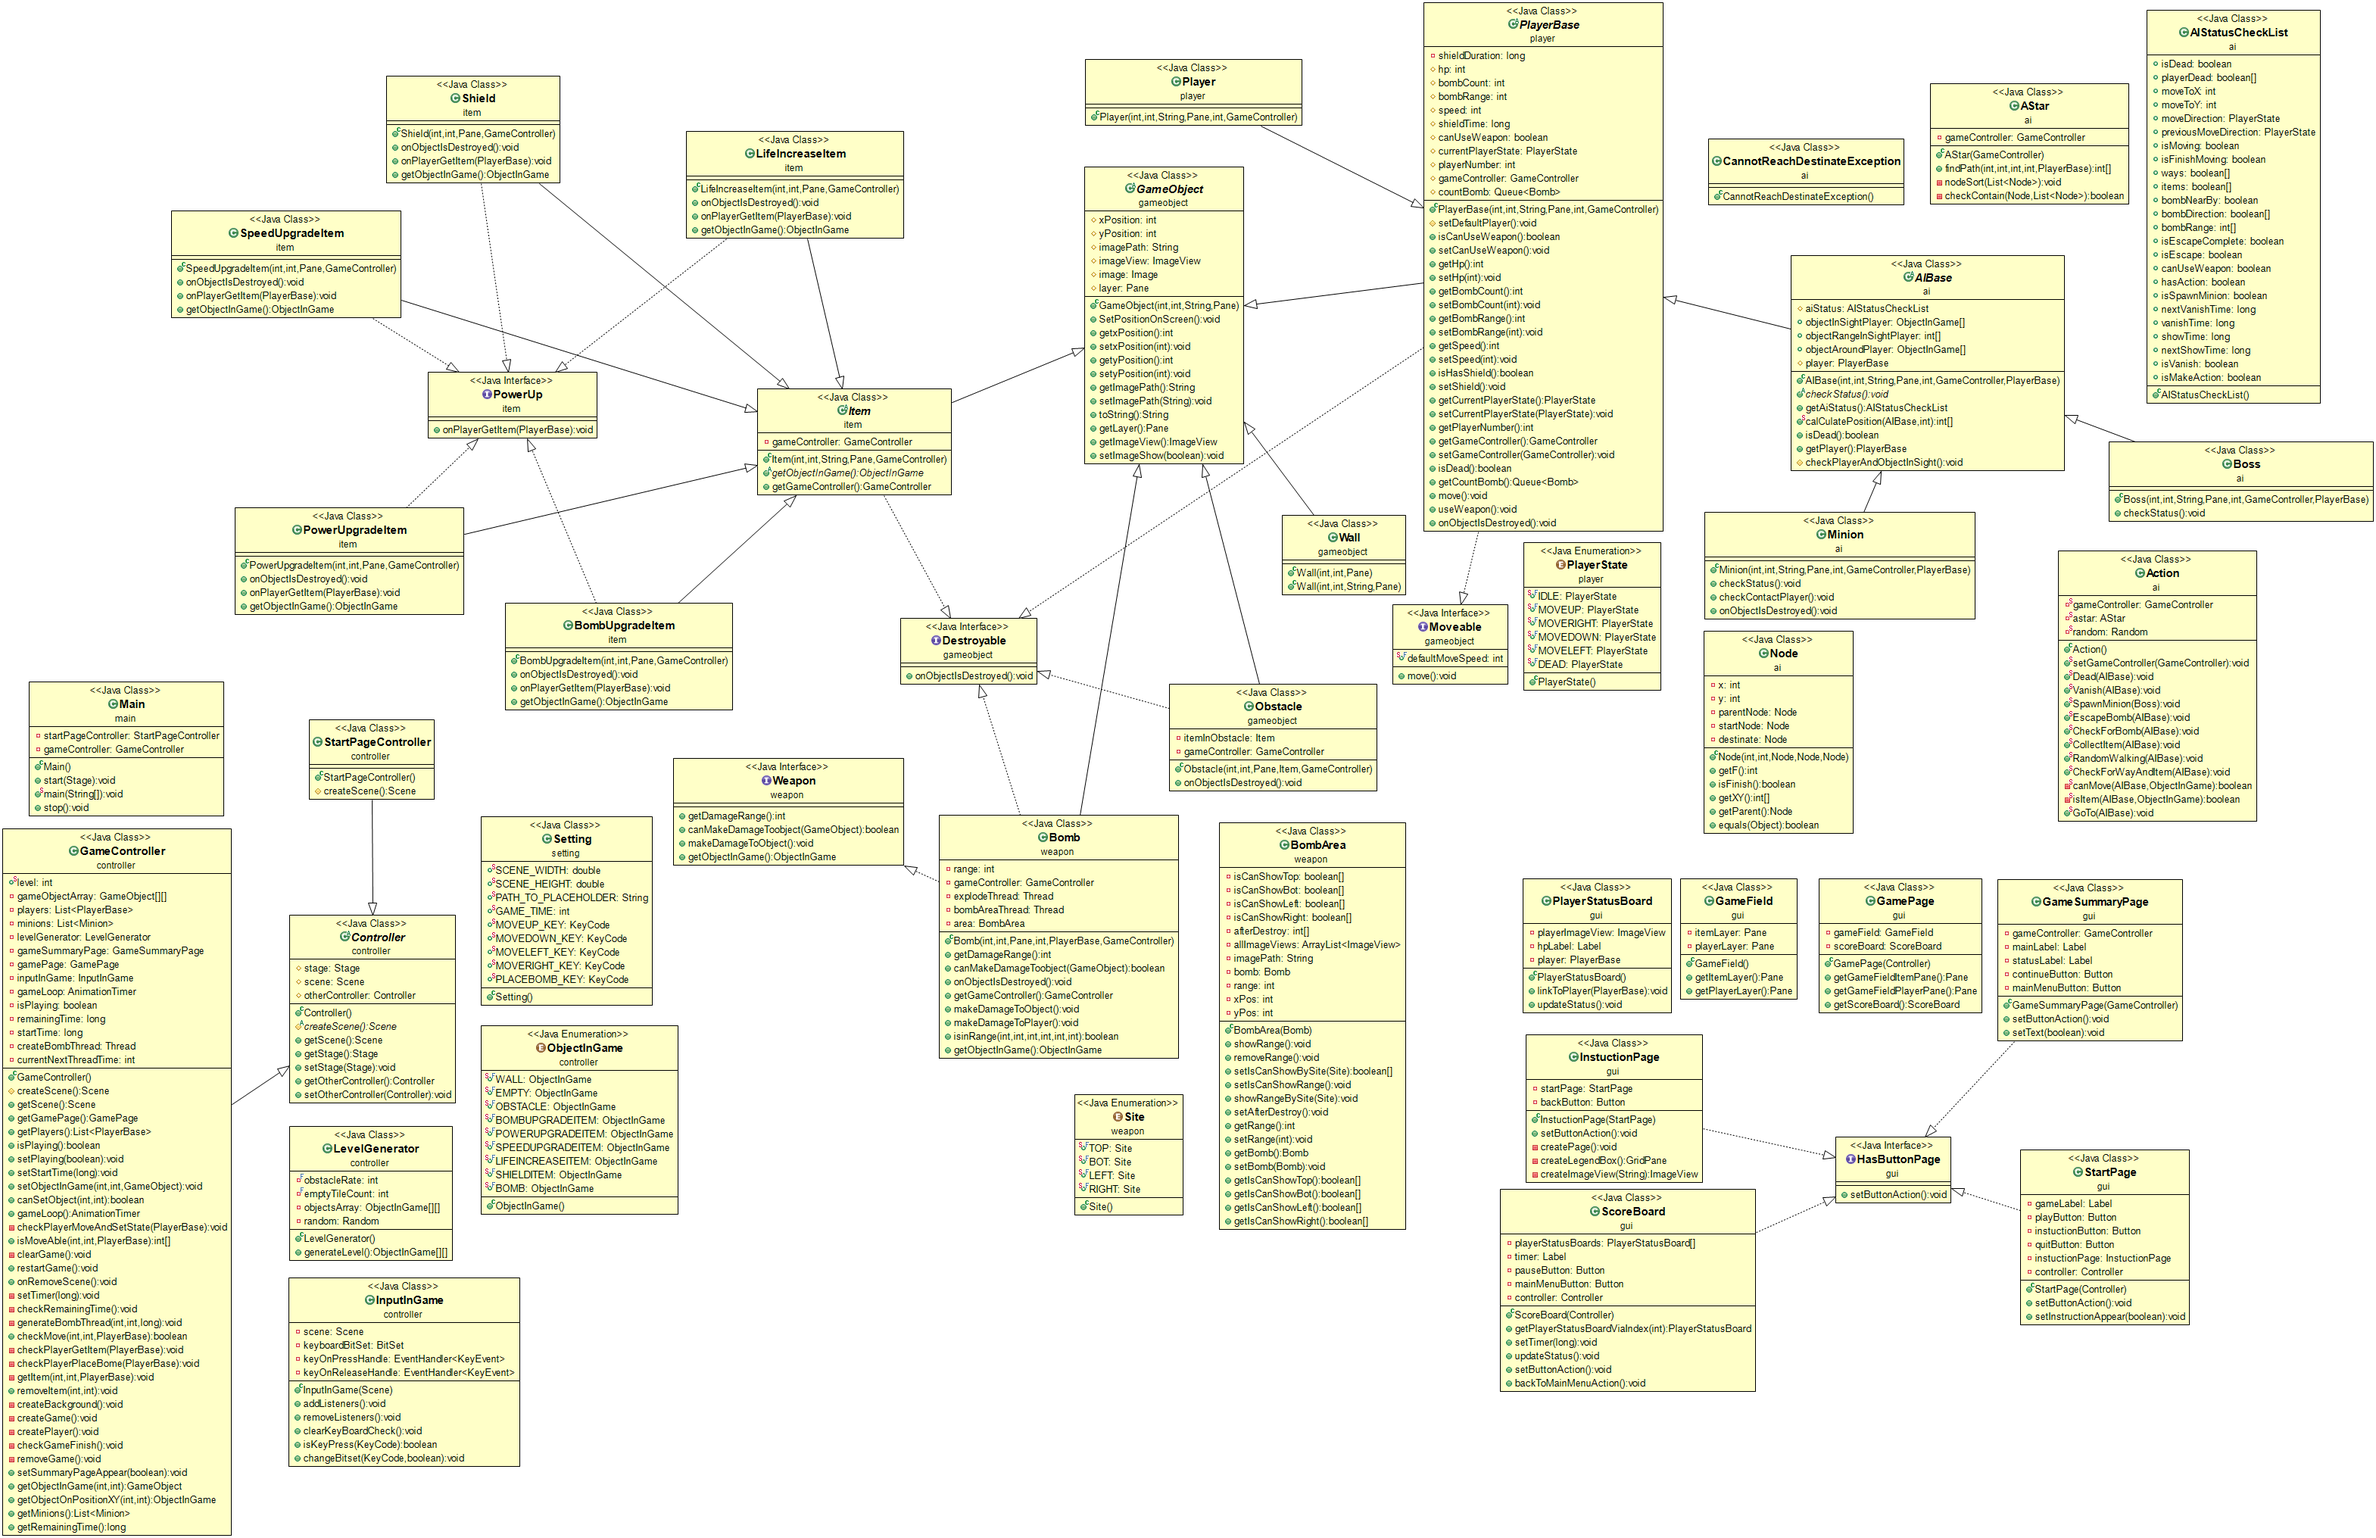
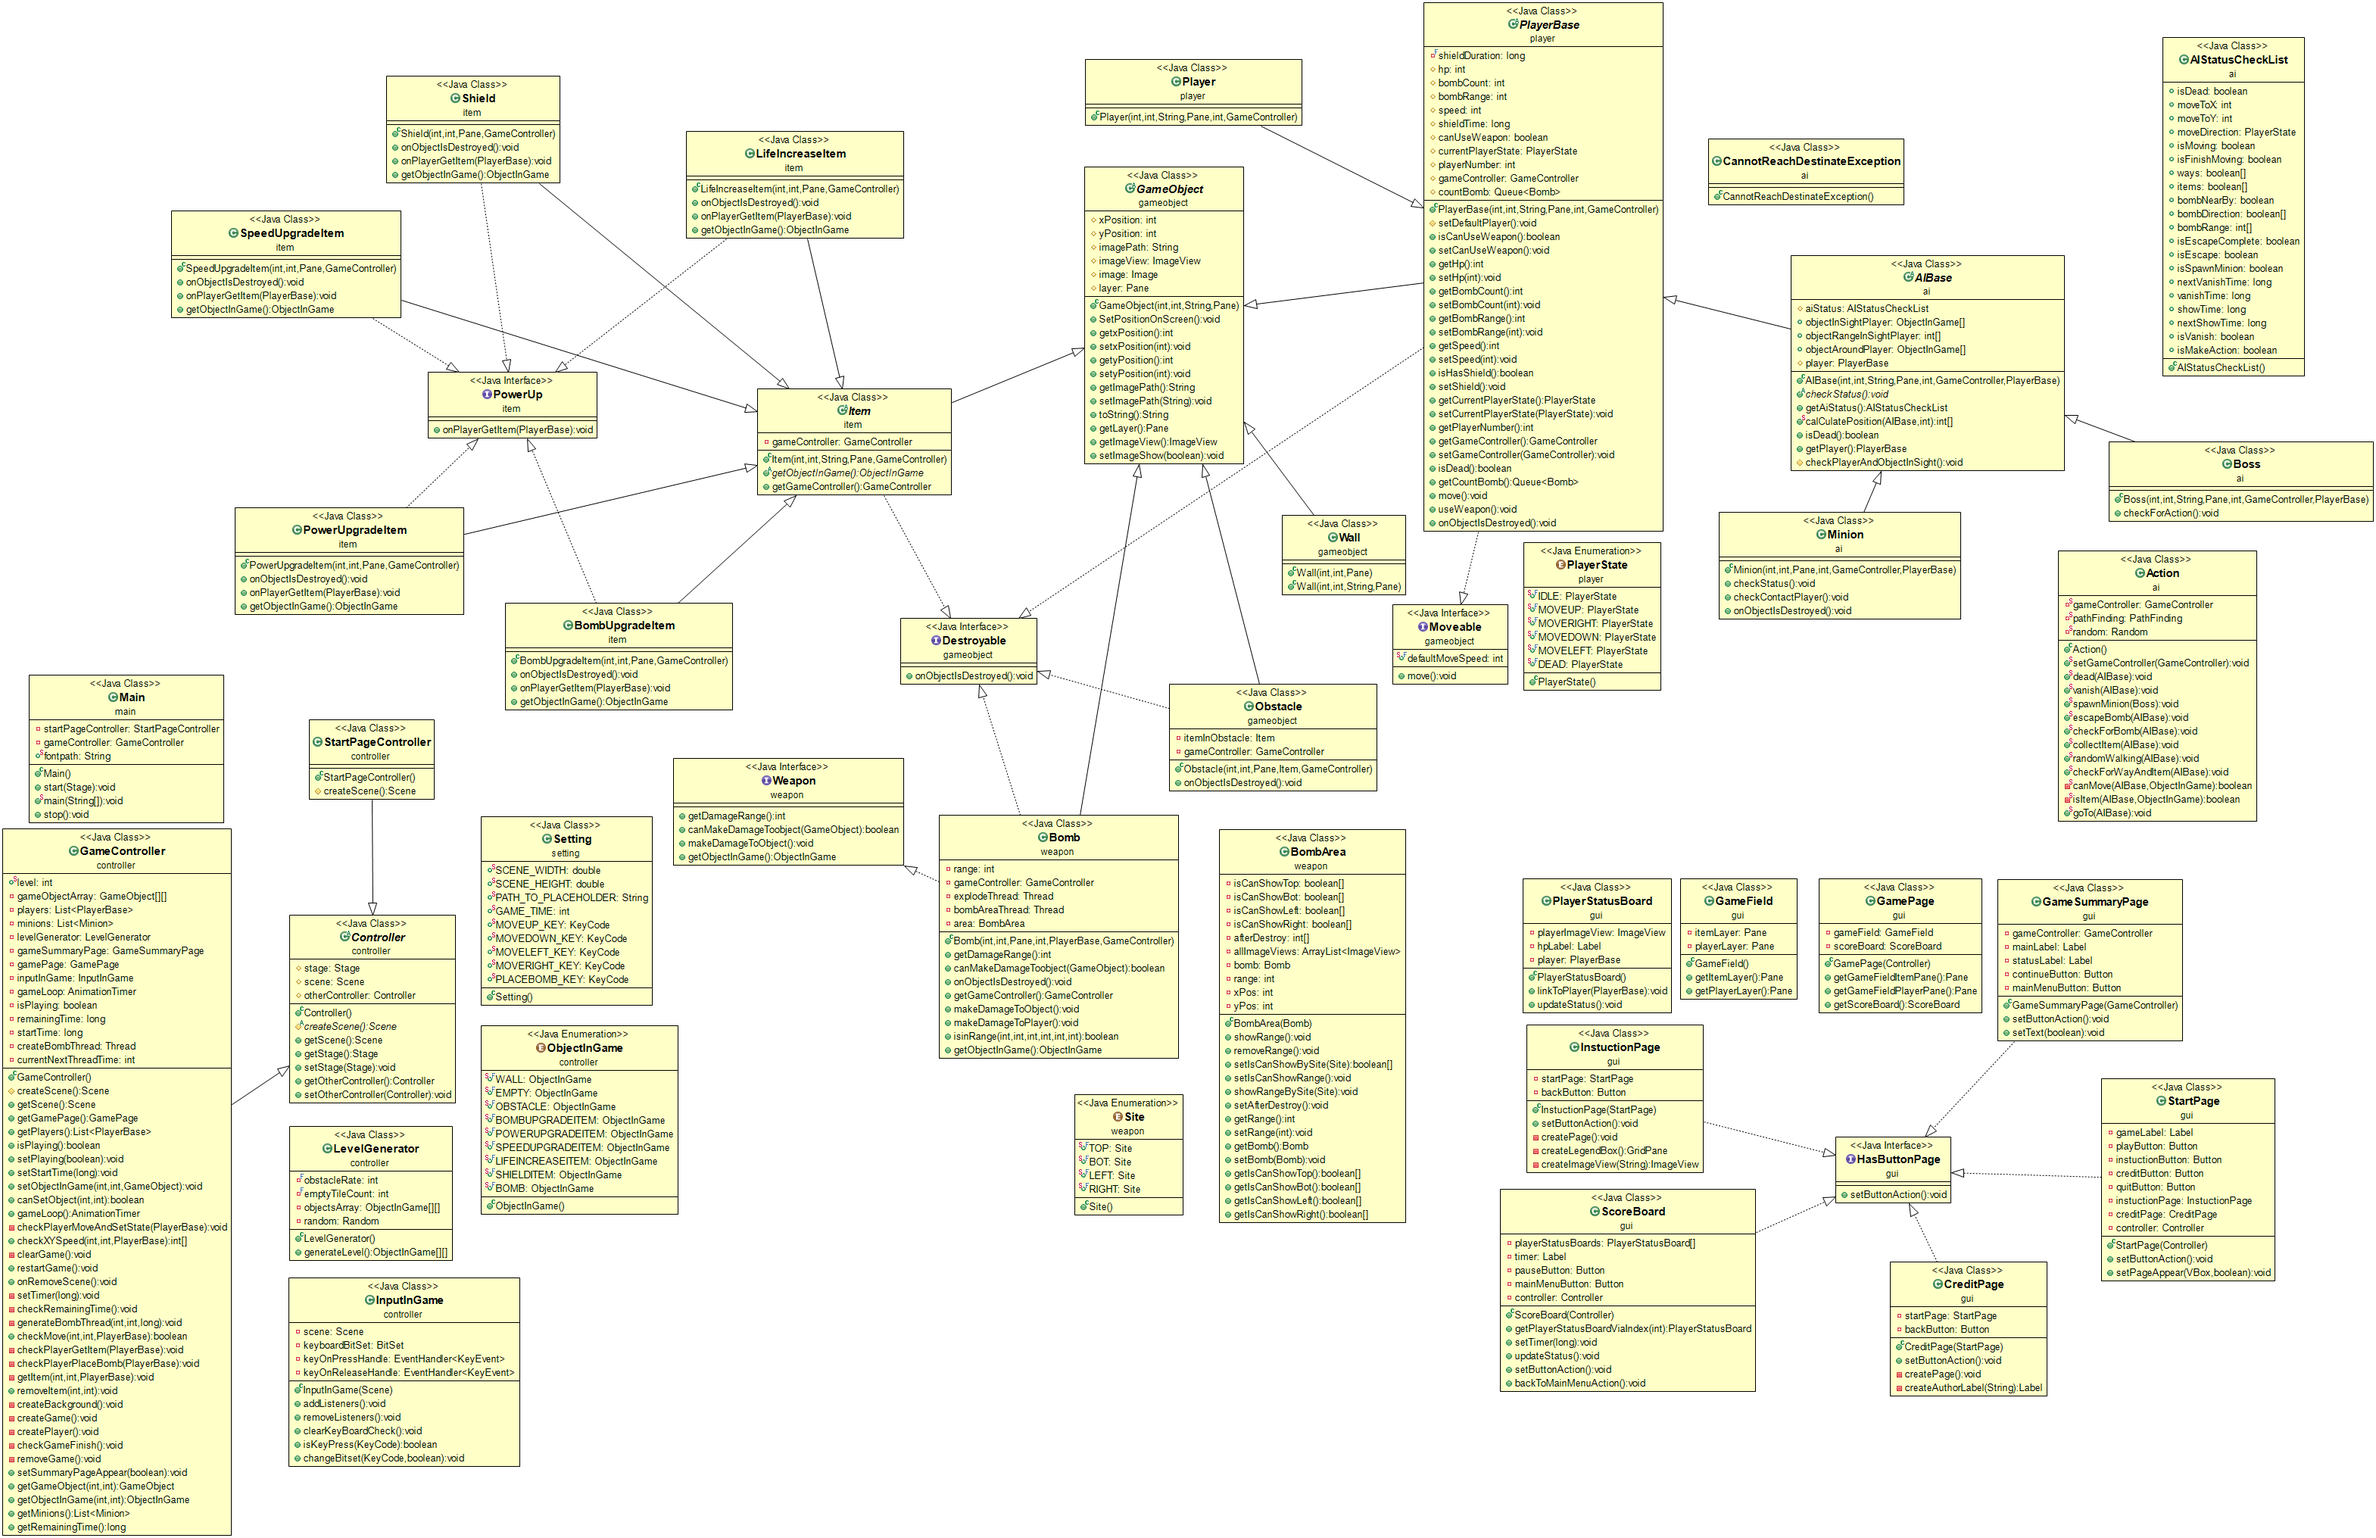
Creditpage & UML is updated

diff --git a/src/gui/CreditPage.java b/src/gui/CreditPage.java
@@ -1,10 +1,14 @@
 package gui;
 
+import java.util.ArrayList;
+
 import javafx.geometry.Insets;
 import javafx.geometry.Pos;
 import javafx.scene.control.Button;
+import javafx.scene.control.Label;
 import javafx.scene.layout.Background;
 import javafx.scene.layout.BackgroundFill;
+import javafx.scene.layout.HBox;
 import javafx.scene.layout.VBox;
 import javafx.scene.paint.Color;
 import javafx.scene.text.Font;
@@ -13,13 +17,14 @@ import main.Main;
 public class CreditPage extends VBox implements HasButtonPage {
 	private StartPage startPage;
 	private Button backButton;
-	
+
 	public CreditPage(StartPage startPage) {
+		createPage();
 
 		backButton = new Button("Back");
 		backButton.setFocusTraversable(false);
 		backButton.setFont(Font.loadFont(Main.fontpath, 14));
-		
+
 		setButtonAction();
 		this.setSpacing(16);
 		this.setPadding(new Insets(50));
@@ -34,6 +39,47 @@ public class CreditPage extends VBox implements HasButtonPage {
 		backButton.setOnAction(e -> {
 			startPage.setPageAppear(this, false);
 		});
+	}
+
+	private void createPage() {
+		Label headerlabel = new Label(" Credit ");
+		headerlabel.setFont(Font.loadFont(Main.fontpath, 30));
+		headerlabel.setBackground(new Background(new BackgroundFill(Color.LIGHTBLUE, null, null)));
+
+		ArrayList<String> names = new ArrayList<String>();
+		names.add("Freepik");
+		names.add("Skyclick");
+		names.add("surang");
+		names.add("Smashicons");
+		names.add("Vectors Market");
+
+		this.getChildren().add(headerlabel);
+
+		for (int i = 0; i < 5; i++) {
+			Label firstword = new Label("Icon made by");
+			Label from = new Label("from");
+			Label web = new Label("www.flaticon.com");
+
+			firstword.setFont(Font.loadFont(Main.fontpath, 18));
+			from.setFont(Font.loadFont(Main.fontpath, 18));
+			web.setFont(Font.loadFont(Main.fontpath, 18));
+
+			web.setTextFill(Color.LIGHTSKYBLUE);
+			HBox hbox = new HBox(10);
+			hbox.setAlignment(Pos.CENTER);
+			hbox.getChildren().addAll(firstword, createAuthorLabel(names.get(i)), from, web);
+
+			this.getChildren().add(hbox);
+
+		}
+
+	}
+
+	private Label createAuthorLabel(String name) {
+		Label author = new Label(name);
+		author.setFont(Font.loadFont(Main.fontpath, 18));
+		author.setTextFill(Color.LIGHTSKYBLUE);
+		return author;
 	}
 
 }
